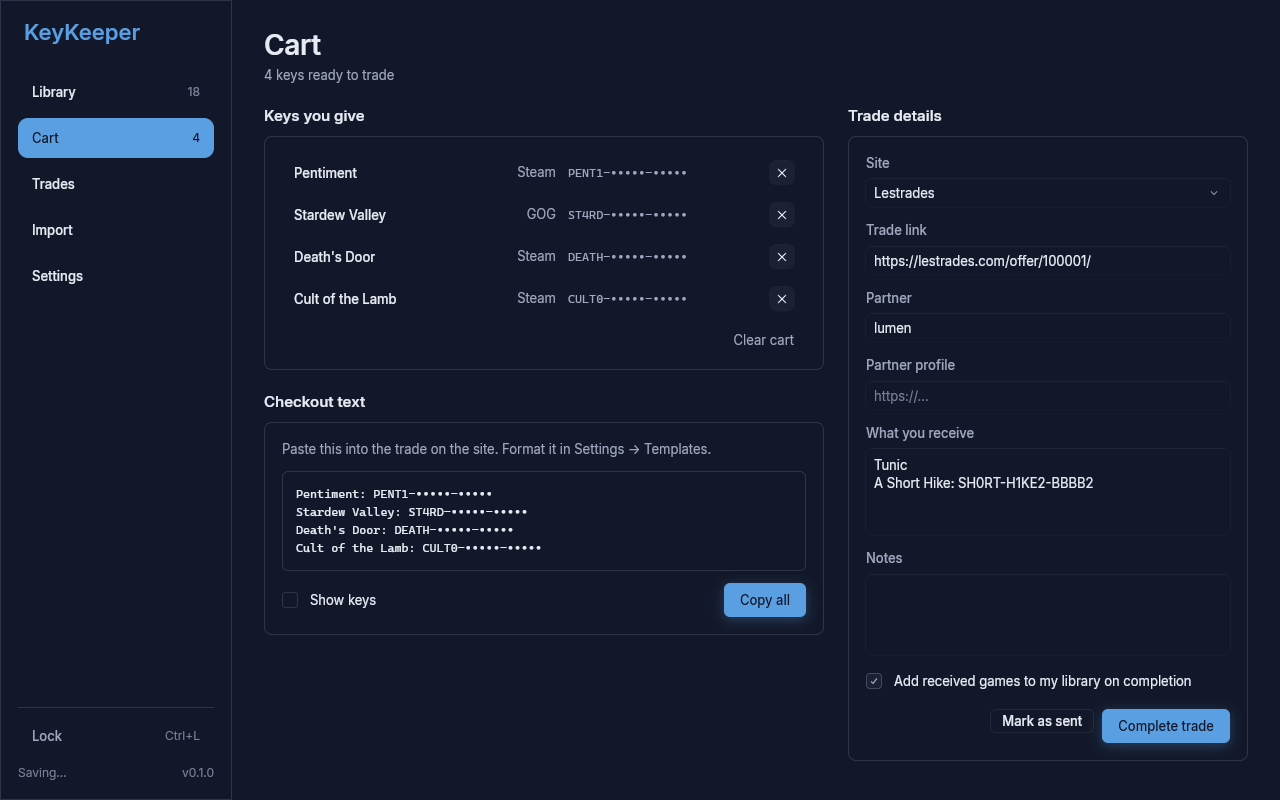
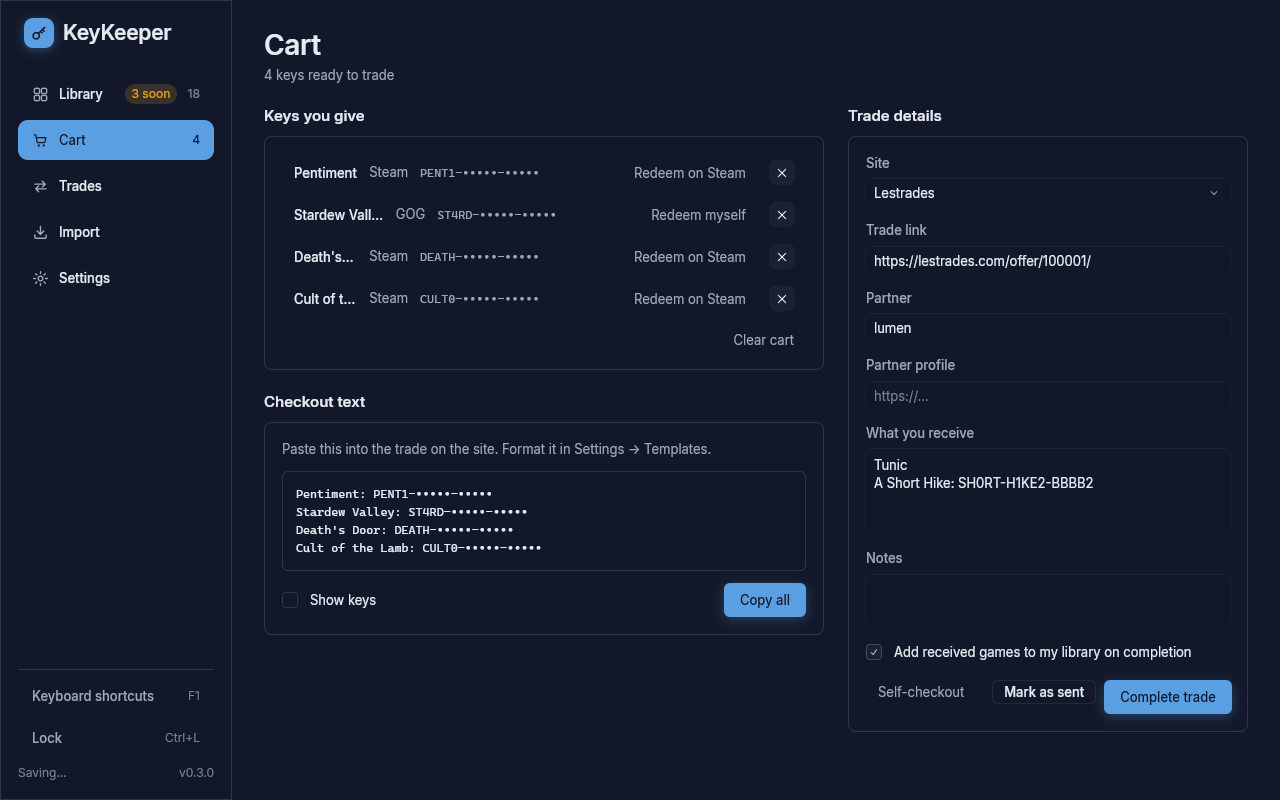
Release 0.3.0: docs, screenshots, compat fixture
- README: the 0.3.0 features, the new keyboard shortcuts, where the
  encrypted artwork cache lives, and new screenshots (hover card, grid, row
  menu, editor, cart, trades) taken from demo data.
- Demo scenes always use the default theme, whatever the user's config says.
- CI snapshots cover the new scenes.
- Version 0.3.0 and its vault compatibility fixture; the fixture data and
  check now include the store details and have-list template added in 0.3.0.

Closes #13

diff --git a/crates/keykeeper-core/tests/compat.rs b/crates/keykeeper-core/tests/compat.rs
@@ -58,7 +58,38 @@ fn fixture_data(app_version: &str) -> VaultData {
     d.settings.steam_id = Some("76561190000000000".into());
     d.api_keys.steam = Some(Secret::new("00000000000000000000000000000000"));
     d.last_app_version = Some(app_version.to_string());
+    if version_of(&d) < (0, 3, 0) {
+        return d;
+    }
+    // Added in 0.3.0: store details and the have-list template.
+    d.app_info.insert(
+        504230,
+        keykeeper_core::AppInfo {
+            name: "Celeste".into(),
+            description: "Fixture description.".into(),
+            developers: vec!["Fixture Dev".into()],
+            tags: vec!["Platformer".into()],
+            released: jiff::Timestamp::from_second(1_516_000_000).ok(),
+            deck: keykeeper_core::DeckCompat::Verified,
+            header_url: Some("https://shared.akamai.steamstatic.com/x/header.jpg".into()),
+            capsule_url: None,
+            fetched_at: jiff::Timestamp::from_second(1_764_000_000).unwrap(),
+        },
+    );
+    d.templates.have_line = "{name}{count} ({platform})".into();
     d
+}
+
+/// "0.2.1" → (0, 2, 1).
+fn version_of(d: &VaultData) -> (u64, u64, u64) {
+    let v: Vec<u64> = d
+        .last_app_version
+        .as_deref()
+        .unwrap_or("0.0.0")
+        .split('.')
+        .map(|p| p.parse().unwrap_or(0))
+        .collect();
+    (v[0], v[1], v[2])
 }
 
 /// What every fixture must contain, whichever version wrote it.
@@ -91,6 +122,22 @@ fn check(file: &Path, d: &VaultData) {
         Some("00000000000000000000000000000000".into()),
         "{name}"
     );
+    if version_of(d) >= (0, 3, 0) {
+        let info = d.app_info.get(&504230).expect("app info");
+        assert_eq!(info.tags, ["Platformer"], "{name}");
+        assert_eq!(info.deck, keykeeper_core::DeckCompat::Verified, "{name}");
+        assert_eq!(
+            d.templates.have_line, "{name}{count} ({platform})",
+            "{name}"
+        );
+    } else {
+        assert!(d.app_info.is_empty(), "{name}");
+        assert_eq!(
+            d.templates.have_line,
+            keykeeper_core::template::DEFAULT_HAVE_LINE,
+            "{name}: older vaults get the default"
+        );
+    }
 }
 
 fn fixtures() -> Vec<PathBuf> {
@@ -139,6 +186,7 @@ fn semver_like(v: &str) -> Option<()> {
 #[test]
 fn generated_data_passes_the_check() {
     check(Path::new("fixture_data"), &fixture_data("0.0.0"));
+    check(Path::new("fixture_data"), &fixture_data("0.3.0"));
 }
 
 /// Writes `tests/fixtures/vaults/v<this version>.kkvault`. Run before tagging a release (see the

diff --git a/crates/keykeeper-app/src/demo.rs b/crates/keykeeper-app/src/demo.rs
@@ -385,6 +385,11 @@ pub fn unlock(s: &mut AppState, data: VaultData) {
     ) {
         s.open_session(v, data);
     }
+    // Screenshots use the default theme, whatever the user's config says (the light scene
+    // picks Light before unlocking).
+    if s.theme != crate::theme::ThemeId::Light {
+        s.theme = crate::theme::ThemeId::Midnight;
+    }
     // Demo state never talks to GitHub or Steam.
     s.mark_offline();
     s.updates.source = std::sync::Arc::new(crate::update::NoUpdates);

diff --git a/README.md b/README.md
@@ -11,26 +11,41 @@ Built in Rust with the [RUNE](https://github.com/anomalyco/rune) GPU UI framewor
 ## Features
 
 - **Encrypted vault.** All keys, trades and settings live in one file encrypted with your password. Argon2id derives the key, and the data is encrypted with XChaCha20-Poly1305. Saves are atomic, and the app keeps rotating encrypted backups. There is no password recovery.
-- **Library.** A fast, sortable table with search across names, bundles, notes, tags and keys. You can filter by status, upcoming redemption deadline, or missing Steam id. Keys stay masked until you reveal or copy them. Undo/redo covers every change.
+- **Library.** A fast, sortable table with search across names, bundles, notes, tags and keys. Keys stay masked until you reveal or copy them. Undo/redo covers every change, and toasts for most changes have an **Undo** button.
+  - **At a glance:** under the title, how many keys you still hold, how many are in the cart, what they're worth at today's cheapest prices, and how many redemption deadlines are near or past. Each figure is a shortcut to its filter, and the sidebar shows "N soon" when deadlines are close. Near deadlines read "in 12 days" / "6 days ago".
+  - **Filters:** status, hide traded & redeemed, deadline within 30 days, no Steam id, **Spares I own** (keys still in hand for games you already own on Steam) and **Duplicates** (games you have more than one key for).
+  - **Game details on hover:** rest the pointer on a game's name to see its artwork, developer, release year, tags, description, review score, Steam Deck status, ownership, best price and all-time low, deadline and bundle. You can turn it off or change the delay in Settings › Library.
+  - **Right-click menu** on any row (or the Menu key): edit, copy the key, cart, redeem, set status, open on Steam / gg.deals / IsThereAnyDeal, delete. With several rows selected it acts on all of them.
+  - **Bulk edit:** select several keys and choose **Edit…** to set status, platform, bundle, source or deadline, or add and remove tags, for all of them in one undo step.
+  - **View menu:** table or **grid with artwork**, comfortable or compact rows, **group by bundle** (foldable), and which columns to show (also by right-clicking a column header). Column widths, order, sort and view are remembered.
 - **Statuses.** Available, Reserved (in the cart), Traded, Redeemed, Gifted, Unknown.
 - **Import.** Reads CSV/TSV exports, Excel or Sheets pastes, and plain lists like `Game: XXXXX-XXXXX-XXXXX`. Columns are matched automatically and you can remap them. Dates follow a day-first or month-first setting. A preview marks each row as new, duplicate or error before anything is added.
 - **Export.** CSV (re-imports cleanly), JSON, or an encrypted backup copy.
 - **Trading.**
   - Add keys to a cart (a floating cart button shows the count) and copy the checkout text (`{name}: {key}` by default).
   - Record the partner, trade link and what you receive. Mark the trade as sent, then complete it: your keys become *Traded*, and received games can be added to your library.
-  - Generate a steamtrades reputation post. Both texts come from templates you can edit.
+  - Generate a steamtrades reputation post.
+  - **Copy have list** copies the names of the tradable keys in view (never the keys), one line per game with copies merged ("Tunic x2"), for a trading site's "have" list.
+  - All three texts come from templates you can edit in Settings › Templates.
 - **Steam.**
-  - Match games to Steam app ids, then fetch review scores.
+  - Match games to Steam app ids, then fetch review scores (the header's **Steam** menu).
   - Check your public wishlist, and your library if you add a Web API key.
+  - Store details and header art for the hover card, grid and editor come from Steam's store. Artwork is cached **encrypted** next to your vault (`<vault>.cache/`, file names don't reveal which games), and you can turn fetching off or clear the cache in Settings › Library.
   - Game names link to their Steam page, and the key editor has link buttons for Steam, gg.deals and IsThereAnyDeal.
   - **Redeem on Steam** opens Steam's activation page with the key filled in and marks the key Redeemed with today's date. Non-Steam keys get **Mark redeemed by me**. In the cart, each key has a Redeem button, and **Self-checkout** marks every cart key redeemed.
-- **Prices.** With an IsThereAnyDeal and/or gg.deals API key and your country (Settings › Prices), the library's Deals column shows each game's cheapest current store price. Hover it to see every store, the all-time low and the keyshop price; click it to open the deal.
+- **Prices.** With an IsThereAnyDeal and/or gg.deals API key and your country (Settings › Prices), the library's Deals column shows each game's cheapest current store price, marked **LOW** when it matches the all-time low. Hover it to see every store, the all-time low and the keyshop price; click it to open the deal.
 - **Security.** Copied keys are excluded from clipboard history and cleared after a delay. The app locks itself when idle and saves before locking.
-- **Themes.** Midnight (default), Amethyst, Forest, Opencode, Graphite, Light, System.
+- **Themes.** Midnight (default), Amethyst, Forest, Opencode, Graphite, Light, System. The window opens at the size you left it.
+
+| Game details on hover | Grid with artwork | Row menu |
+|---|---|---|
+| ![Hover card](docs/screenshots/hover-card.png) | ![Grid](docs/screenshots/grid.png) | ![Row menu](docs/screenshots/row-menu.png) |
 
 | Key editor | Cart & checkout | Trades & reputation |
 |---|---|---|
 | ![Key editor](docs/screenshots/detail.png) | ![Cart](docs/screenshots/cart.png) | ![Trades](docs/screenshots/trades.png) |
+
+Screenshots use demo data. Without artwork (offline, or fetching turned off) each game gets a coloured card with its initials.
 
 ## Install
 
@@ -49,7 +64,7 @@ Download the installer for your system from the [latest release](https://github.
 > - **Windows SmartScreen** says "Windows protected your PC". Click **More info**, then **Run anyway**.
 > - **macOS Gatekeeper** says the app can't be opened or is from an unidentified developer. Try to open it once, then go to **System Settings › Privacy & Security** and click **Open Anyway**. If macOS says the app "is damaged", run `xattr -dr com.apple.quarantine /Applications/KeyKeeper.app` in Terminal.
 
-Your vault is stored outside the app (`%APPDATA%\KeyKeeper\data` on Windows, `~/Library/Application Support/KeyKeeper` on macOS), and uninstalling does not delete it. You can pick another location on the lock screen.
+Your vault is stored outside the app (`%APPDATA%\KeyKeeper\data` on Windows, `~/Library/Application Support/KeyKeeper` on macOS), and uninstalling does not delete it. You can pick another location on the lock screen. The encrypted artwork cache sits next to the vault in `vault.kkvault.cache`; delete it whenever you like (or use Settings › Library › Clear).
 
 ## Updates
 
@@ -75,8 +90,13 @@ On macOS, use ⌘ wherever this list says Ctrl. Press **F1** (or **Ctrl+/**) in 
 | Ctrl+Y or Ctrl+Shift+Z | Redo |
 | Ctrl+Shift+C | Copy the selected keys as "Name: Key" |
 | Delete | Delete the selected keys (asks first) |
+| ↑ / ↓ | Move through the library (or type a game's name to jump to it) |
+| Enter or F2 | Edit the selected key |
+| Ctrl+C | Copy the selected key |
+| Ctrl+B | Add the selected keys to the cart, or take them out |
+| Menu or Shift+F10 | Actions menu for the selected keys (or right-click a row) |
 | Ctrl+L | Lock the vault |
-| Esc | Close a dialog or the editor |
+| Esc | Close a dialog, menu or the editor |
 | F1 or Ctrl+/ | Show keyboard shortcuts |
 
 ## Building
